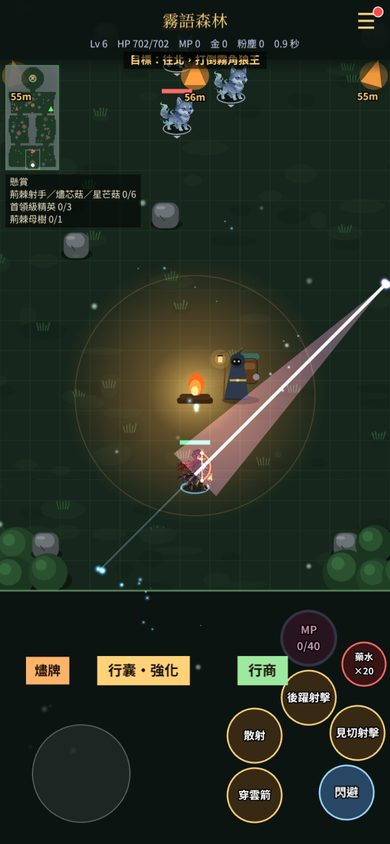
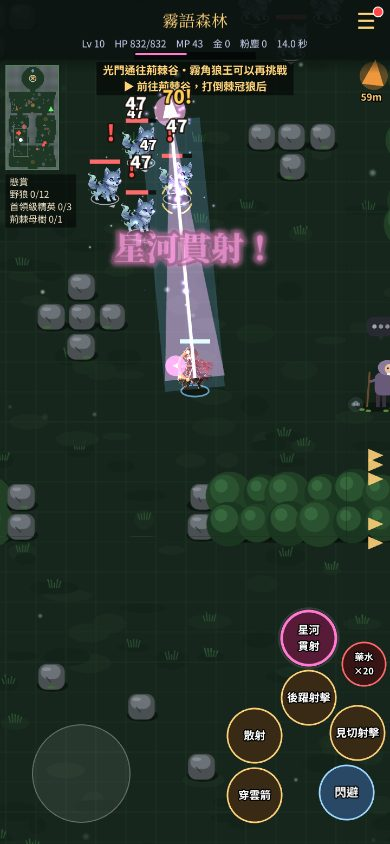
怪躲在左上小地圖／懸賞板底下時，發現你的紅「!」不再浮在小地圖和懸賞字上；README 截圖 62（長弓大招）、75（虛空奇點）用現在的畫面重拍（沒有舊的下緣硬切黑邊）
Claude-Session: https://claude.ai/code/session_01DgXGTxBidVrXajbe2Bkavf

diff --git a/src/game/scenes/RtBattleScene.ts b/src/game/scenes/RtBattleScene.ts
@@ -2544,7 +2544,8 @@ export class RtBattleScene extends Phaser.Scene {
         const ax = d ? this.sx(d.x) : 0;
         const ay = d ? this.sy(d.y) - 60 : 0;
         const onZone = this.zoneTexts.some((z) => z.active && z.alpha > 0.05 && z.getBounds().contains(ax, ay));
-        if (d && ay > VIEW_TOP + 20 && !onZone) floatNumber(this, ax, ay, '!', { color: '#ff5a5a', size: 40 });
+        // 第 68 輪：怪躲在左上小地圖／懸賞板底下時，紅「!」以前浮在小地圖和懸賞字上 → 不畫
+        if (d && ay > VIEW_TOP + 20 && !onZone && !this.overHudPanel(ax, ay)) floatNumber(this, ax, ay, '!', { color: '#ff5a5a', size: 40 });
         // 巡邏的精英發現你（D-117）：橘色衝擊環＋警告音＋「被發現了！」
         if (d?.patrol && !this.bot) {
           shockRing(this, this.sx(d.x), this.sy(d.y), 0xff8a5c, 60, 260, 5);
@@ -5103,6 +5104,16 @@ export class RtBattleScene extends Phaser.Scene {
     }
     this.add.image(x - 2, y - 2, key).setOrigin(0).setDepth(49).setAlpha(0.9);
     this.mini = { x, y, w, h, s };
+  }
+
+  /** 第 68 輪：(x, y) 在左上小地圖或懸賞板上（含一點邊距）→ 浮字不要畫在那裡 */
+  private overHudPanel(x: number, y: number): boolean {
+    const m = this.mini;
+    if (m && x < m.x + m.w + 24 && y > m.y - 24 && y < m.y + m.h + 70) return true;
+    const b = this.bountyTxt;
+    // 浮字會往上飄約 50px → 板子下面 70px 內也算
+    if (b?.visible && b.text) { const r = b.getBounds(); if (x < r.right + 24 && y > r.top - 24 && y < r.bottom + 70) return true; }
+    return false;
   }
 
   /**
